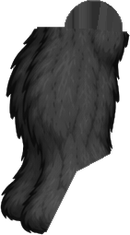
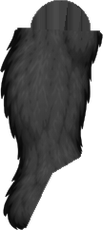
Beta: korrigierte Seitenvorlage – ein Bein, gleich grosse Füsse (#67)
* Beta: Pausen-Bildschirm im Gym mit Zielpause pro Übung

- Nach jedem Satz grosser Pausen-Bildschirm: Pausenzeit mit Ring bis zur
  empfohlenen Pause (Standard 2 min), danach grün „Bereit“ und kurze
  Vibration; darunter was als Nächstes kommt (Übung, Satz, eben/letztes
  Mal) und ein grosser Knopf
- Zielpause mit −15/+15 s pro Übung einstellbar, im Konto gespeichert
- Supersatz: zwischen A und B kein Pausen-Bildschirm, in der Leiste Satz
  und Vorschlag; nach der Runde Pause mit der ganzen nächsten Runde,
  Zielpause = längste der Gruppe
- Wegwischen/Zurück blendet aus, Pausenuhr in der Leiste antippen holt ihn
  zurück; „Übung wechseln“ führt zur Übungsauswahl

Claude-Session: https://claude.ai/code/session_01RzgDZiCUCCWMjrRSUqxzer

* Haupt-App: Supersätze und Pausen-Bildschirm aus der Beta übernehmen

Übernahme mit tools/promote-beta.sh (Supersätze in Plan und Freestyle,
Pausen-Bildschirm mit Zielpause pro Übung).

Claude-Session: https://claude.ai/code/session_01RzgDZiCUCCWMjrRSUqxzer

* Beta: neue Faultier-Figur (v2) hinter Schalter im Konto (Zwischenstand)

Teile aus ganzen Zeichnungen geschnitten (tools/sloth-rig/build_v2.py),
Standard bleibt die klassische Figur. Seitenansicht: Rumpf wartet noch
auf eine Zeichnung ohne Arm vor der Brust.

Claude-Session: https://claude.ai/code/session_01RzgDZiCUCCWMjrRSUqxzer

* Beta: Seitenansicht der neuen Figur mit eigenem Rumpf ohne Arme

Die Brust kommt jetzt aus side_torso.jpg (kein Arm davor), keine
[…]

diff --git a/beta/sloth-rig.js b/beta/sloth-rig.js
@@ -18,7 +18,7 @@ const slothPartHref = (im) => (im.startsWith('v2') ? SLOTH_RIG2_BASE : SLOTH_RIG
 const SLOTH_PARTS = {"front_head":[510,53,696,293],"front_torso":[456,248,745,582],"front_uarm_l":[296,251,478,388],"front_uarm_r":[723,251,904,388],"front_farm_l":[51,288,294,400],"front_farm_r":[907,288,1150,400],"front_thigh_l":[439,516,582,697],"front_thigh_r":[629,516,773,697],"front_tail":[566,584,643,725],"front_calf_l":[444,678,569,866],"front_calf_r":[643,679,768,866],"back_head":[510,53,696,293],"back_torso":[455,247,745,622],"back_uarm_l":[300,251,478,388],"back_uarm_r":[723,251,900,388],"back_farm_l":[163,288,294,396],"back_farm_r":[906,288,1039,396],"back_elbow_l":[267,315,319,367],"back_elbow_r":[881,314,934,367],"back_grip_l":[195,606,314,813],"back_grip_r":[899,606,1018,813],"back_thigh_l":[439,567,571,697],"back_thigh_r":[641,562,773,697],"back_tail":[566,619,643,741],"back_calf_l":[444,678,569,866],"back_calf_r":[643,678,768,866],"pose_russian_a":[209,33,499,221],"pose_russian_b":[679,29,968,221],"pose_ninety":[339,246,498,434],"pose_frog_a":[252,454,543,618],"pose_frog_b":[697,485,1018,614],"pose_extrot_a":[405,634,537,875],"pose_extrot_b":[633,634,817,876],"eq_plate":[570,40,688,159],"eq_kettlebell":[870,40,962,159],"eq_dumbbell":[184,51,365,151],"eq_dhandle":[178,193,273,328],"eq_rope":[515,183,622,331],"eq_ring":[866,182,955,336],"eq_barend":[66,379,285,434],"eq_bench":[326,418,558,499],"eq_incline":[604,353,821,499],"eq_decline":[887,404,1118,499],"eq_cable":[92,506,252,840],"eq_dipstation":[436,631,630,840],"eq_rack":[890,553,1108,840],"eq_latpull":[68,33,226,248],"eq_legpress":[312,68,575,239],"eq_legext":[657,67,851,241],"eq_legcurl":[917,67,1143,241],"eq_butterfly":[69,324,232,543],"eq_abduction":[362,329,510,543],"eq_calfseated":[657,417,844,543],"eq_calfstanding":[931,326,1134,541],"eq_hyperext":[71,688,280,839],"eq_pullover":[465,604,649,840],"eq_tbar":[877,653,1112,840],"eq_abwheel":[181,58,443,250],"eq_jumprope":[776,42,989,261],"eq_ladder":[93,361,534,514],"eq_stepbox":[748,354,1035,538],"eq_band":[93,682,531,759],"eq_mat":[627,666,1152,759],"eq_stack":[303,516,390,652],"eq_calfframe":[499,491,711,666],"eq_calfpad":[807,531,920,627],"eq_dipbars":[292,735,461,819],"eq_nordic":[535,711,724,819],"eq_abductseat":[1008,654,1141,819],"eq_edge":[818,753,954,823],"front_face_neutral":[106,22,253,213],"front_face_effort":[106,22,251,213],"front_face_blink":[106,22,253,213],"front_face_yawn":[106,22,253,213],"side_face_neutral":[104,40,335,317],"side_face_effort":[103,40,334,317],"side_face_blink":[104,40,332,317],"side_torso":[458,53,699,568],"side_body":[458,220,692,568],"side_tail":[372,453,473,535],"side_uarm":[791,80,910,268],"side_uarm_far":[791,80,910,268],"side_elbow":[811,261,857,307],"side_elbow_far":[811,261,857,307],"side_farm":[770,320,959,400],"side_farm_far":[770,320,959,400],"side_hand":[990,449,1166,539],"side_hand_far":[990,449,1166,539],"side_thigh":[629,516,773,687],"side_thigh_far":[629,516,773,687],"side_knee":[721,652,768,700],"side_knee_far":[721,652,768,700],"side_calf":[1020,689,1180,854],"side_calf_far":[1020,689,1180,854],"side_shin":[1020,689,1122,793],"side_shin_far":[1020,689,1122,793],"side_fist":[59,109,404,284],"side_fist_far":[59,109,404,284],"side_foot":[152,622,370,804],"side_foot_far":[152,622,370,804],"side_flat":[624,706,893,825],"side_flat_far":[624,706,893,825]};
 /* PARTS:END */
 /* V2:BEGIN */
-const SLOTH_V2 = {"parts":{"v2front_torso":[149,183,351,481],"v2front_head":[173,15,331,198],"v2front_uarm_l":[86,206,200,366],"v2front_farm_l":[12,322,139,516],"v2front_farmfist_l":[16,322,138,468],"v2front_thigh_l":[142,400,251,584],"v2front_calf_l":[80,546,224,758],"v2front_uarm_r":[300,206,418,364],"v2front_farm_r":[365,322,497,516],"v2front_farmfist_r":[370,322,494,468],"v2front_thigh_r":[252,400,365,584],"v2front_calf_r":[284,546,428,758],"v2back_torso":[149,182,351,466],"v2back_head":[174,12,338,201],"v2back_uarm_l":[79,204,201,371],"v2back_farm_l":[30,326,142,440],"v2back_grip_l":[12,412,86,518],"v2back_thigh_l":[143,398,252,586],"v2back_calf_l":[78,546,224,753],"v2back_uarm_r":[300,204,429,367],"v2back_farm_r":[370,326,478,438],"v2back_grip_r":[426,412,499,518],"v2back_thigh_r":[250,397,370,585],"v2back_calf_r":[285,546,430,753],"v2hang_torso":[164,216,346,464],"v2hang_head":[196,120,317,263],"v2hang_uarm_l":[126,136,213,334],"v2hang_farm_l":[122,50,192,164],"v2hang_grip_l":[120,13,198,74],"v2hang_thigh_l":[152,400,261,581],"v2hang_calf_l":[136,540,235,754],"v2hang_uarm_r":[297,136,387,348],"v2hang_farm_r":[321,52,391,164],"v2hang_grip_r":[316,13,392,74],"v2hang_thigh_r":[250,400,360,582],"v2hang_calf_r":[277,540,376,754],"v2sit_torso":[153,184,361,403],"v2sit_head":[176,22,337,196],"v2sit_uarm_l":[78,215,181,389],"v2sit_farm_l":[49,352,150,539],"v2sit_thigh_l":[136,377,258,491],"v2sit_calf_l":[100,453,244,750],"v2sit_uarm_r":[330,216,435,389],"v2sit_farm_r":[362,352,464,539],"v2sit_thigh_r":[254,377,376,489],"v2sit_calf_r":[268,453,412,750],"v2side_torso":[30,238,263,592],"v2side_face":[92,11,254,191],"v2side_uarm":[157,180,325,270],"v2side_farm":[296,184,442,266],"v2side_hand":[422,190,496,238],"v2side_fist":[296,184,496,266],"v2side_flat":[422,190,496,238],"v2side_uarm_far":[157,180,325,270],"v2side_farm_far":[296,184,442,266],"v2side_hand_far":[422,190,496,238],"v2side_fist_far":[296,184,496,266],"v2side_flat_far":[422,190,496,238],"v2side_thigh":[84,497,226,704],"v2side_thigh_far":[84,497,226,704],"v2side_calf":[82,678,279,915],"v2side_calf_far":[82,678,279,915],"v2side_shin":[82,678,212,913],"v2side_shin_far":[82,678,212,913],"v2side_foot":[125,825,279,915],"v2side_foot_far":[125,825,279,915],"v2side_thighA":[416,565,617,758],"v2side_thighA_far":[416,565,617,758],"v2side_calfA":[365,600,534,831],"v2side_calfA_far":[365,600,534,831],"v2side_thighB":[772,633,1035,811],"v2side_thighB_far":[772,633,1035,811],"v2side_calfB":[680,624,863,852],"v2side_calfB_far":[680,624,863,852],"v2side_thighC":[1155,687,1477,848],"v2side_thighC_far":[1155,687,1477,848],"v2side_calfC":[915,561,1099,767],"v2side_calfC_far":[915,561,1099,767]},"joints":{"front":{"torso":[[250.0,445.0],[250.0,185.0]],"head":[[250.0,185.0],[250.0,20.0]],"farm_l":[[102.5,345.0],[40.0,495.0]],"uarm_l":[[165.0,240.0],[102.5,345.0]],"thigh_l":[[210.0,445.0],[180.0,575.0]],"calf_l":[[180.0,575.0],[155.0,695.0]],"farm_r":[[397.5,345.0],[462.5,495.0]],"uarm_r":[[335.0,240.0],[397.5,345.0]],"thigh_r":[[290.0,445.0],[320.0,575.0]],"calf_r":[[320.0,575.0],[345.0,695.0]]},"back":{"torso":[[250.0,445.0],[250.0,190.0]],"head":[[250.0,190.0],[250.0,15.0]],"grip_l":[[57.5,430.0],[42.5,500.0]],"farm_l":[[102.5,350.0],[57.5,430.0]],"uarm_l":[[165.0,240.0],[102.5,350.0]],"thigh_l":[[210.0,445.0],[180.0,575.0]],"calf_l":[[180.0,575.0],[155.0,695.0]],"grip_r":[[445.0,430.0],[465.0,500.0]],"farm_r":[[400.0,350.0],[445.0,430.0]],"uarm_r":[[335.0,240.0],[400.0,350.0]],"thigh_r":[[290.0,445.0],[325.0,575.0]],"calf_r":[[325.0,575.0],[350.0,695.0]]},"hang":{"torso":[[255.0,465.0],[255.0,235.0]],"head":[[255.0,235.0],[255.0,120.0]],"grip_l":[[152.5,55.0],[157.5,25.0]],"farm_l":[[150.0,140.0],[152.5,55.0]],"uarm_l":[[177.5,255.0],[150.0,140.0]],"thigh_l":[[222.5,465.0],[187.5,570.0]],"calf_l":[[187.5,570.0],[172.5,700.0]],"grip_r":[[355.0,55.0],[352.5,25.0]],"farm_r":[[357.5,140.0],[355.0,55.0]],"uarm_r":[[332.5,255.0],[357.5,140.0]],"thigh_r":[[287.5,465.0],[322.5,570.0]],"calf_r":[[322.5,570.0],[340.0,700.0]]},"sit":{"torso":[[255.0,415.0],[255.0,190.0]],"head":[[255.0,190.0],[255.0,25.0]],"farm_l":[[105.0,375.0],[75.0,525.0]],"uarm_l":[[145.0,257.5],[105.0,375.0]],"thigh_l":[[190.0,415.0],[192.5,482.5]],"calf_l":[[192.5,482.5],[169.0,660.0]],"farm_r":[[405.0,375.0],[435.0,525.0]],"uarm_r":[[365.0,257.5],[405.0,375.0]],"thigh_r":[[320.0,415.0],[320.0,482.5]],"calf_r":[[320.0,482.5],[340.0,660.0]]},"side":{"torso":[[159.2,546.0],[163.8,327.6]],"face":[[200.0,170.0],[165.0,30.0]],"flex":{"thigh":8.5,"thighA":48.7,"thighB":82.1,"thighC":105.0},"kneeBend":{"thigh":14.7,"thighA":66.5,"thighB":93.6,"thighC":118.7},"thighA":[[452.0,615.5],[550.1,719.4]],"calfA":[[478.7,626.1],[422.7,757.5]],"thighB":[[823.5,711.7],[953.6,770.6]],"calfB":[[805.3,650.8],[738.3,777.0]],"thighC":[[1265.9,758.3],[1407.7,775.8]],"calfC":[[1059.0,583.6],[975.5,699.5]],"uarm":[[200.0,222.5],[320.0,225.0]],"farm":[[320.0,225.0],[440.0,212.5]],"fist":[[320.0,225.0],[440.0,212.5]],"hand":[[440.0,212.5],[492.5,215.0]],"flat":[[440.0,212.5],[492.5,215.0]],"thigh":[[154.4,555.9],[172.6,697.6]],"calf":[[174.8,706.6],[156.4,848.2]],"shin":[[174.8,706.6],[156.4,848.2]],"foot":[[156.4,848.2],[248.4,894.2]]}},"anchors":{"front":{"neck":[250.0,185.0],"sh_l":[165.0,240.0],"sh_r":[335.0,240.0],"hip_l":[210.0,445.0],"hip_r":[290.0,445.0],"tail":[250.0,445.0]},"back":{"neck":[250.0,190.0],"sh_l":[165.0,240.0],"sh_r":[335.0,240.0],"hip_l":[210.0,445.0],"hip_r":[290.0,445.0],"tail":[250.0,445.0]},"hang":{"neck":[255.0,235.0],"sh_l":[177.5,255.0],"sh_r":[332.5,255.0],"hip_l":[222.5,465.0],"hip_r":[287.5,465.0],"tail":[255.0,465.0]},"sit":{"neck":[255.0,190.0],"sh_l":[145.0,257.5],"sh_r":[365.0,257.5],"hip_l":[190.0,415.0],"hip_r":[320.0,415.0],"tail":[255.0,415.0]},"side":{"shoulder":[163.8,327.6],"hip":[159.2,546.0],"tail":[54.6,591.5],"face":[186.6,265.7]}}};
+const SLOTH_V2 = {"parts":{"v2front_torso":[149,183,351,481],"v2front_head":[173,15,331,198],"v2front_uarm_l":[86,206,200,366],"v2front_farm_l":[12,322,139,516],"v2front_farmfist_l":[16,322,138,468],"v2front_thigh_l":[142,400,251,584],"v2front_calf_l":[80,546,224,758],"v2front_uarm_r":[300,206,418,364],"v2front_farm_r":[365,322,497,516],"v2front_farmfist_r":[370,322,494,468],"v2front_thigh_r":[252,400,365,584],"v2front_calf_r":[284,546,428,758],"v2back_torso":[149,182,351,466],"v2back_head":[174,12,338,201],"v2back_uarm_l":[79,204,201,371],"v2back_farm_l":[30,326,142,440],"v2back_grip_l":[12,412,86,518],"v2back_thigh_l":[143,398,252,586],"v2back_calf_l":[78,546,224,753],"v2back_uarm_r":[300,204,429,367],"v2back_farm_r":[370,326,478,438],"v2back_grip_r":[426,412,499,518],"v2back_thigh_r":[250,397,370,585],"v2back_calf_r":[285,546,430,753],"v2hang_torso":[164,216,346,464],"v2hang_head":[196,120,317,263],"v2hang_uarm_l":[126,136,213,334],"v2hang_farm_l":[122,50,192,164],"v2hang_grip_l":[120,13,198,74],"v2hang_thigh_l":[152,400,261,581],"v2hang_calf_l":[136,540,235,754],"v2hang_uarm_r":[297,136,387,348],"v2hang_farm_r":[321,52,391,164],"v2hang_grip_r":[316,13,392,74],"v2hang_thigh_r":[250,400,360,582],"v2hang_calf_r":[277,540,376,754],"v2sit_torso":[153,184,361,403],"v2sit_head":[176,22,337,196],"v2sit_uarm_l":[78,215,181,389],"v2sit_farm_l":[49,352,150,539],"v2sit_thigh_l":[136,377,258,491],"v2sit_calf_l":[100,453,244,750],"v2sit_uarm_r":[330,216,435,389],"v2sit_farm_r":[362,352,464,539],"v2sit_thigh_r":[254,377,376,489],"v2sit_calf_r":[268,453,412,750],"v2side_torso":[30,238,263,592],"v2side_face":[92,11,254,191],"v2side_uarm":[157,180,325,270],"v2side_farm":[296,184,442,266],"v2side_hand":[422,190,496,238],"v2side_fist":[296,184,496,266],"v2side_flat":[422,190,496,238],"v2side_uarm_far":[157,180,325,270],"v2side_farm_far":[296,184,442,266],"v2side_hand_far":[422,190,496,238],"v2side_fist_far":[296,184,496,266],"v2side_flat_far":[422,190,496,238],"v2side_thigh":[89,510,229,718],"v2side_thigh_far":[89,510,229,718],"v2side_calf":[111,698,266,935],"v2side_calf_far":[111,698,266,935],"v2side_shin":[111,698,214,928],"v2side_shin_far":[111,698,214,928],"v2side_foot":[134,846,266,934],"v2side_foot_far":[134,846,266,934],"v2side_thighA":[390,522,572,704],"v2side_thighA_far":[390,522,572,704],"v2side_calfA":[412,637,561,869],"v2side_calfA_far":[412,637,561,869],"v2side_thighB":[711,581,949,748],"v2side_thighB_far":[711,581,949,748],"v2side_calfB":[702,628,857,846],"v2side_calfB_far":[702,628,857,846],"v2side_thighC":[1032,611,1314,751],"v2side_thighC_far":[1032,611,1314,751],"v2side_calfC":[903,553,1060,736],"v2side_calfC_far":[903,553,1060,736]},"joints":{"front":{"torso":[[250.0,445.0],[250.0,185.0]],"head":[[250.0,185.0],[250.0,20.0]],"farm_l":[[102.5,345.0],[40.0,495.0]],"uarm_l":[[165.0,240.0],[102.5,345.0]],"thigh_l":[[210.0,445.0],[180.0,575.0]],"calf_l":[[180.0,575.0],[155.0,695.0]],"farm_r":[[397.5,345.0],[462.5,495.0]],"uarm_r":[[335.0,240.0],[397.5,345.0]],"thigh_r":[[290.0,445.0],[320.0,575.0]],"calf_r":[[320.0,575.0],[345.0,695.0]]},"back":{"torso":[[250.0,445.0],[250.0,190.0]],"head":[[250.0,190.0],[250.0,15.0]],"grip_l":[[57.5,430.0],[42.5,500.0]],"farm_l":[[102.5,350.0],[57.5,430.0]],"uarm_l":[[165.0,240.0],[102.5,350.0]],"thigh_l":[[210.0,445.0],[180.0,575.0]],"calf_l":[[180.0,575.0],[155.0,695.0]],"grip_r":[[445.0,430.0],[465.0,500.0]],"farm_r":[[400.0,350.0],[445.0,430.0]],"uarm_r":[[335.0,240.0],[400.0,350.0]],"thigh_r":[[290.0,445.0],[325.0,575.0]],"calf_r":[[325.0,575.0],[350.0,695.0]]},"hang":{"torso":[[255.0,465.0],[255.0,235.0]],"head":[[255.0,235.0],[255.0,120.0]],"grip_l":[[152.5,55.0],[157.5,25.0]],"farm_l":[[150.0,140.0],[152.5,55.0]],"uarm_l":[[177.5,255.0],[150.0,140.0]],"thigh_l":[[222.5,465.0],[187.5,570.0]],"calf_l":[[187.5,570.0],[172.5,700.0]],"grip_r":[[355.0,55.0],[352.5,25.0]],"farm_r":[[357.5,140.0],[355.0,55.0]],"uarm_r":[[332.5,255.0],[357.5,140.0]],"thigh_r":[[287.5,465.0],[322.5,570.0]],"calf_r":[[322.5,570.0],[340.0,700.0]]},"sit":{"torso":[[255.0,415.0],[255.0,190.0]],"head":[[255.0,190.0],[255.0,25.0]],"farm_l":[[105.0,375.0],[75.0,525.0]],"uarm_l":[[145.0,257.5],[105.0,375.0]],"thigh_l":[[190.0,415.0],[192.5,482.5]],"calf_l":[[192.5,482.5],[169.0,660.0]],"farm_r":[[405.0,375.0],[435.0,525.0]],"uarm_r":[[365.0,257.5],[405.0,375.0]],"thigh_r":[[320.0,415.0],[320.0,482.5]],"calf_r":[[320.0,482.5],[340.0,660.0]]},"side":{"torso":[[159.2,546.0],[163.8,327.6]],"face":[[200.0,170.0],[165.0,30.0]],"flex":{"thigh":4.9,"thighA":51.0,"thighB":82.6,"thighC":100.2},"kneeBend":{"thigh":7.6,"thighA":69.5,"thighB":103.1,"thighC":125.3},"thighA":[[418.3,569.6],[520.7,669.3]],"calfA":[[517.1,664.7],[459.6,795.5]],"thighB":[[755.8,653.2],[886.4,711.0]],"calfB":[[815.7,654.2],[729.8,768.4]],"thighC":[[1126.1,674.5],[1265.9,703.8]],"calfC":[[1035.7,575.8],[931.0,673.0]],"uarm":[[200.0,222.5],[320.0,225.0]],"farm":[[320.0,225.0],[440.0,212.5]],"fist":[[320.0,225.0],[440.0,212.5]],"hand":[[440.0,212.5],[492.5,215.0]],"flat":[[440.0,212.5],[492.5,215.0]],"thigh":[[158.4,570.3],[167.7,712.8]],"calf":[[171.1,727.0],[161.6,869.6]],"shin":[[171.1,727.0],[161.6,869.6]],"foot":[[161.6,869.6],[254.7,914.2]]}},"anchors":{"front":{"neck":[250.0,185.0],"sh_l":[165.0,240.0],"sh_r":[335.0,240.0],"hip_l":[210.0,445.0],"hip_r":[290.0,445.0],"tail":[250.0,445.0]},"back":{"neck":[250.0,190.0],"sh_l":[165.0,240.0],"sh_r":[335.0,240.0],"hip_l":[210.0,445.0],"hip_r":[290.0,445.0],"tail":[250.0,445.0]},"hang":{"neck":[255.0,235.0],"sh_l":[177.5,255.0],"sh_r":[332.5,255.0],"hip_l":[222.5,465.0],"hip_r":[287.5,465.0],"tail":[255.0,465.0]},"sit":{"neck":[255.0,190.0],"sh_l":[145.0,257.5],"sh_r":[365.0,257.5],"hip_l":[190.0,415.0],"hip_r":[320.0,415.0],"tail":[255.0,415.0]},"side":{"shoulder":[163.8,327.6],"hip":[159.2,546.0],"tail":[54.6,591.5],"face":[186.6,265.7]}}};
 /* V2:END */
 
 // Gelenkpunkte in Vorlagen-Koordinaten (1200 x 896): [nah, fern]

diff --git a/beta/sw.js b/beta/sw.js
@@ -1,4 +1,4 @@
-const CACHE_NAME = 'pincho-beta-v72';
+const CACHE_NAME = 'pincho-beta-v73';
 const SHELL_ASSETS = [
   './', './index.html', './styles.css', './data.js', './firebase.js', './sloth-rig.js', './app.js',
   './manifest.json', '../assets/icon-512-any.png', '../assets/icon-192-any.png', '../assets/icon-512-transparent.png', '../assets/icon-512-maskable.png', '../assets/icon-beta-192-any.png', '../assets/icon-beta-512-maskable.png',

diff --git a/tools/sloth-rig/build_v2.py b/tools/sloth-rig/build_v2.py
@@ -295,14 +295,14 @@ def side_torso(parts, key, cfg):
 # Beine aus side_squats.png. torso = (Hüfte, Schulter) der Figur für den Beugewinkel; belt = Unterkante Gürtel;
 # bag = Chalkbag (gehört zum Rumpf). Stehend: ganzes Bein (Oberschenkel, Unterschenkel, Fuss); gebeugt: nur Gesäss + Oberschenkel,
 # die Puppe blendet je nach Hüftwinkel zur nächsten Zeichnung über.
-SIDE_STAND = dict(src='side_squats.png', xr=SQX[0], scale=SQ, hip=(170, 612), kn=(190, 768), an=(170, 922), to=(270, 972), torso=((175, 600), (180, 360)),
+SIDE_STAND = dict(src='side_squats.png', xr=SQX[0], scale=SQ, hip=(170, 612), kn=(180, 765), an=(170, 915), to=(268, 962), torso=((175, 600), (180, 360)),
                   belt=((100, 532), (245, 575)), bag=[(22, 512), (112, 512), (112, 648), (22, 648)])
 SIDE_LEGS = {
-    'thighA': dict(src='side_squats.png', xr=SQX[1], scale=SQ, hip=(470, 640), kn=(572, 748), an=(505, 905), to=(620, 968), torso=((485, 640), (510, 370)),
+    'thighA': dict(src='side_squats.png', xr=SQX[1], scale=SQ, hip=(470, 640), kn=(585, 752), an=(520, 900), to=(625, 965), torso=((485, 640), (510, 370)),
                    belt=((445, 568), (608, 600)), bag=[(405, 552), (488, 552), (488, 672), (405, 672)]),
-    'thighB': dict(src='side_squats.png', xr=SQX[2], scale=SQ, hip=(810, 700), kn=(938, 758), an=(860, 905), to=(995, 970), torso=((800, 690), (880, 420)),
+    'thighB': dict(src='side_squats.png', xr=SQX[2], scale=SQ, hip=(810, 700), kn=(950, 762), an=(850, 895), to=(990, 960), torso=((800, 690), (880, 420)),
                    belt=((785, 612), (915, 655)), bag=[(702, 577), (785, 577), (785, 702), (702, 702)]),
-    'thighC': dict(src='side_squats.png', xr=SQX[3], scale=SQ, hip=(1232, 738), kn=(1370, 755), an=(1262, 905), to=(1400, 968), torso=((1185, 740), (1290, 480)),
+    'thighC': dict(src='side_squats.png', xr=SQX[3], scale=SQ, hip=(1232, 738), kn=(1385, 770), an=(1245, 900), to=(1385, 965), torso=((1185, 740), (1290, 480)),
                    belt=((1175, 660), (1325, 712)), bag=[(1078, 628), (1170, 628), (1170, 758), (1078, 758)]),
 }
 
